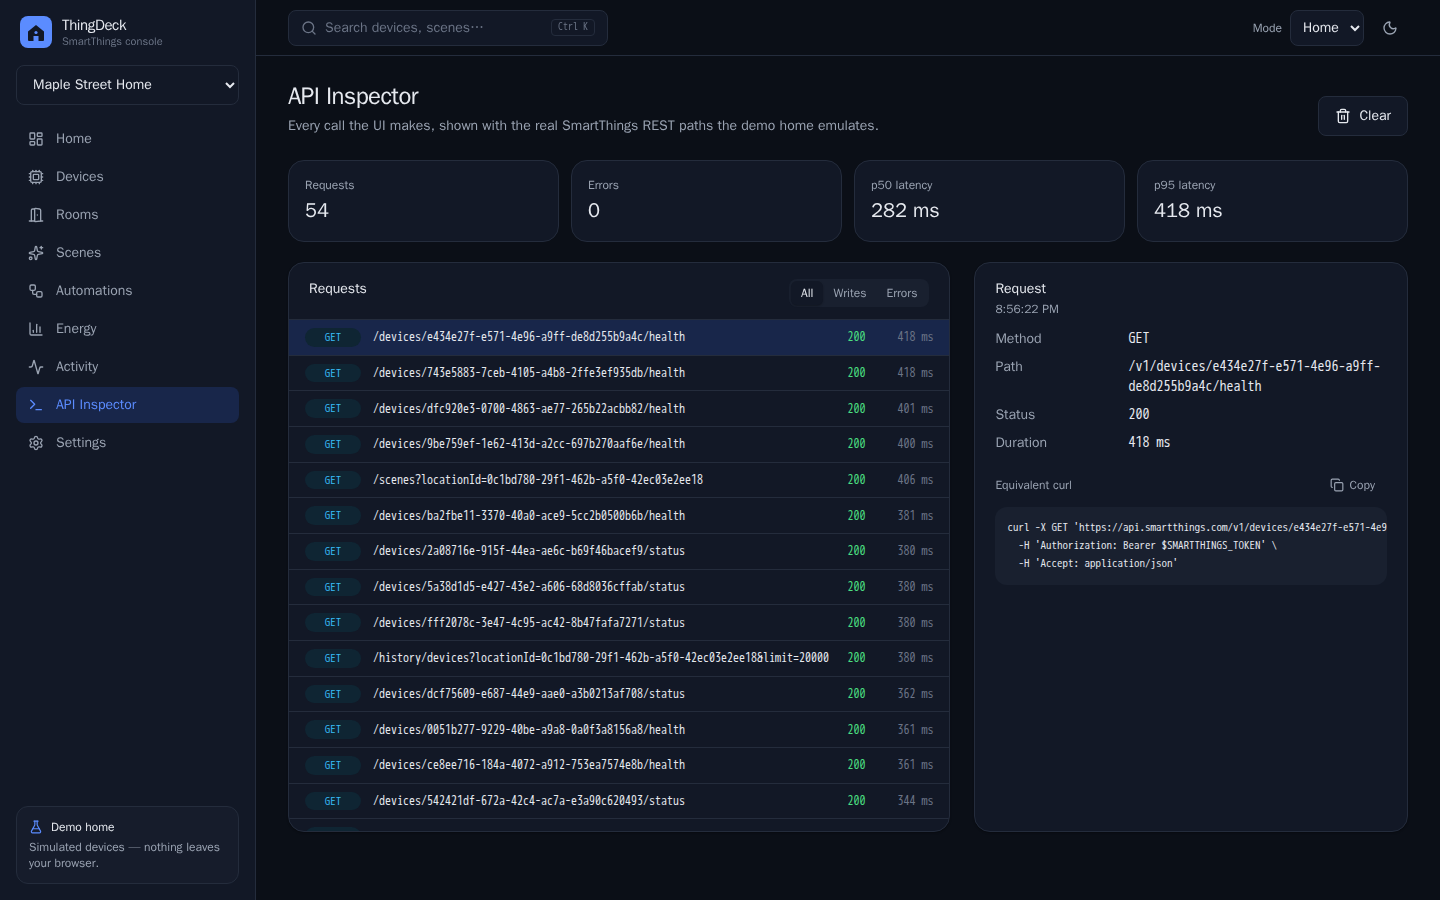
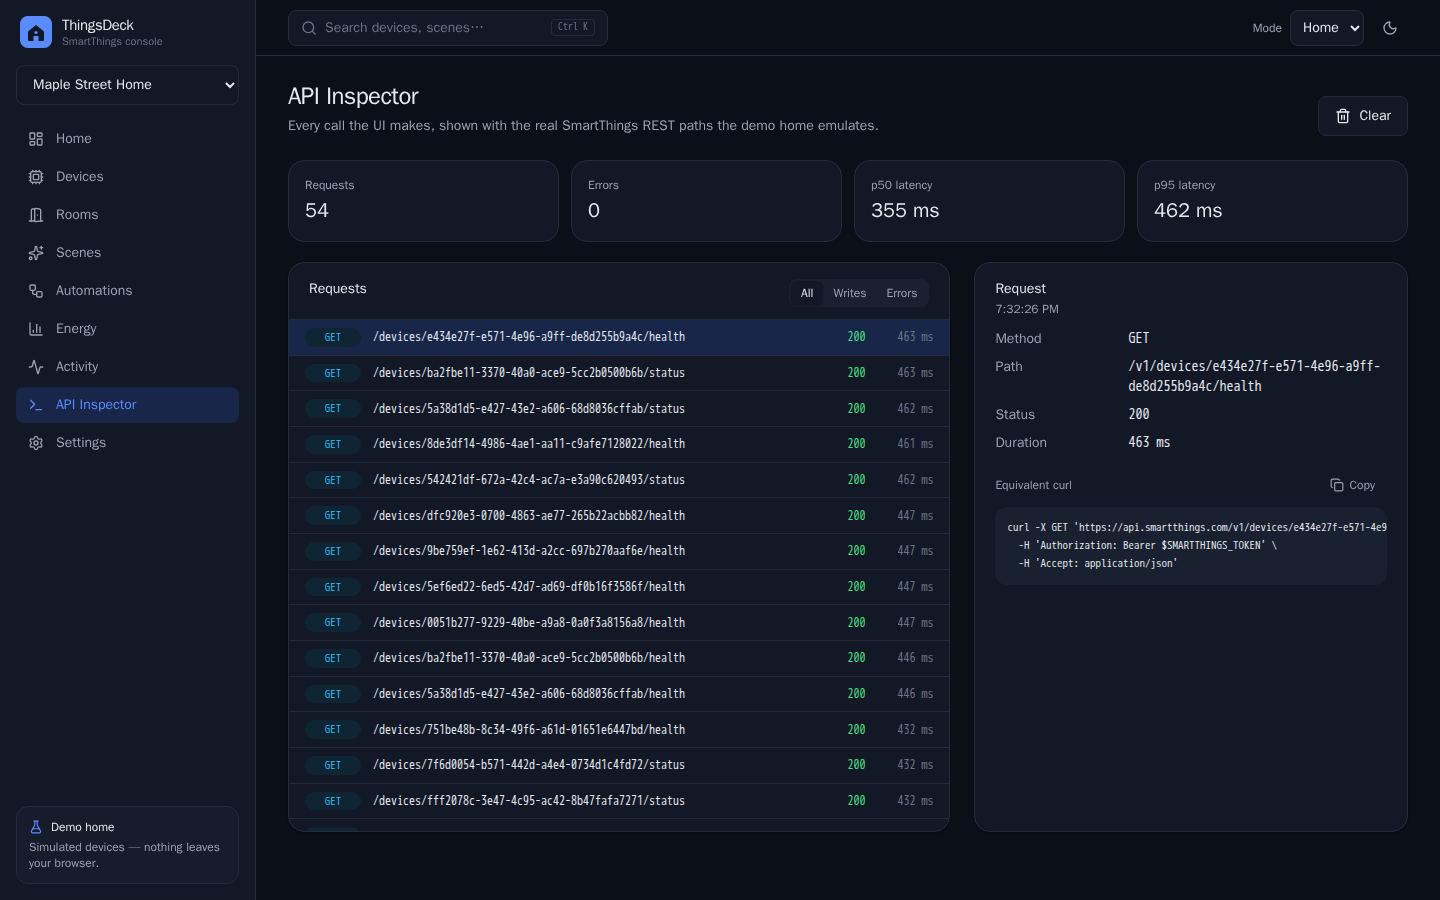
chore: rename project to ThingsDeck
Rename the app, package, Docker project and storage keys, point the README
at the renamed repo with a live CI badge, and regenerate screenshots.

diff --git a/index.html b/index.html
@@ -6,15 +6,15 @@
     <meta name="viewport" content="width=device-width, initial-scale=1.0" />
     <meta
       name="description"
-      content="ThingDeck — an unofficial web console for SmartThings homes, with a fully simulated demo home."
+      content="ThingsDeck — an unofficial web console for SmartThings homes, with a fully simulated demo home."
     />
     <meta name="theme-color" content="#0f172a" />
-    <title>ThingDeck</title>
+    <title>ThingsDeck</title>
     <script>
       // Apply the saved theme before first paint to avoid a flash.
       (function () {
         try {
-          var s = JSON.parse(localStorage.getItem('thingdeck.settings') || '{}');
+          var s = JSON.parse(localStorage.getItem('thingsdeck.settings') || '{}');
           var t = (s.state && s.state.theme) || 'system';
           var dark = t === 'dark' || (t === 'system' && matchMedia('(prefers-color-scheme: dark)').matches);
           document.documentElement.classList.toggle('dark', dark);

diff --git a/src/store/settings.ts b/src/store/settings.ts
@@ -32,7 +32,7 @@ export interface SettingsState {
   setEnergyRate: (rate: number, currency?: string) => void;
 }
 
-const SESSION_TOKEN_KEY = 'thingdeck.token';
+const SESSION_TOKEN_KEY = 'thingsdeck.token';
 
 export const useSettings = create<SettingsState>()(
   persist(
@@ -75,7 +75,7 @@ export const useSettings = create<SettingsState>()(
       setEnergyRate: (energyRate, currency) => set({ energyRate, ...(currency ? { currency } : {}) }),
     }),
     {
-      name: 'thingdeck.settings',
+      name: 'thingsdeck.settings',
       version: 1,
       storage: createJSONStorage(() => ({
         getItem: (key) => local.get(key),

diff --git a/src/pages/Settings.tsx b/src/pages/Settings.tsx
@@ -286,7 +286,7 @@ export default function SettingsPage() {
       </Card>
 
       <p className="pb-4 text-xs text-subtle">
-        ThingDeck is an independent open-source project. It is not affiliated with, endorsed by, or sponsored
+        ThingsDeck is an independent open-source project. It is not affiliated with, endorsed by, or sponsored
         by Samsung or SmartThings. SmartThings is a trademark of its respective owner.
       </p>
     </div>

diff --git a/src/components/layout/Logo.tsx b/src/components/layout/Logo.tsx
@@ -7,7 +7,7 @@ export function Logo() {
         <circle cx="16" cy="16.5" r="1.6" fill="var(--accent)" />
       </svg>
       <div className="leading-tight">
-        <div className="text-[15px] font-semibold tracking-tight">ThingDeck</div>
+        <div className="text-[15px] font-semibold tracking-tight">ThingsDeck</div>
         <div className="text-[11px] text-subtle">SmartThings console</div>
       </div>
     </div>

diff --git a/e2e/screenshots.spec.ts b/e2e/screenshots.spec.ts
@@ -15,7 +15,7 @@ async function settle(page: Page) {
 
 async function setTheme(page: Page, theme: 'light' | 'dark') {
   await page.addInitScript((t) => {
-    localStorage.setItem('thingdeck.settings', JSON.stringify({ state: { theme: t }, version: 1 }));
+    localStorage.setItem('thingsdeck.settings', JSON.stringify({ state: { theme: t }, version: 1 }));
   }, theme);
 }
 

diff --git a/src/lib/storage.ts b/src/lib/storage.ts
@@ -2,7 +2,7 @@
 function safe(kind: 'localStorage' | 'sessionStorage'): Storage | undefined {
   try {
     const storage = globalThis[kind];
-    const probe = '__thingdeck_probe__';
+    const probe = '__thingsdeck_probe__';
     storage.setItem(probe, probe);
     storage.removeItem(probe);
     return storage;

diff --git a/README.md b/README.md
@@ -2,19 +2,19 @@
 
 <img src="public/favicon.svg" width="64" height="64" alt="" />
 
-# ThingDeck
+# ThingsDeck
 
 **A fast, capability-driven web console for SmartThings homes.**
 Runs fully offline against a simulated two-location home. Or point it at your own SmartThings account with a personal access token.
 
-[![CI](https://img.shields.io/badge/CI-GitHub_Actions-2088FF?logo=githubactions&logoColor=white)](.github/workflows/ci.yml)
+[![CI](https://github.com/rh-97/thingsdeck/actions/workflows/ci.yml/badge.svg)](https://github.com/rh-97/thingsdeck/actions/workflows/ci.yml)
 ![React 19](https://img.shields.io/badge/React-19-61DAFB?logo=react&logoColor=black)
 ![TypeScript](https://img.shields.io/badge/TypeScript-strict-3178C6?logo=typescript&logoColor=white)
 ![Vite](https://img.shields.io/badge/Vite-8-646CFF?logo=vite&logoColor=white)
 ![Docker](https://img.shields.io/badge/dev-100%25_Docker-2496ED?logo=docker&logoColor=white)
 ![License: MIT](https://img.shields.io/badge/license-MIT-green)
 
-<img src="docs/screenshots/dashboard-dark.png" alt="ThingDeck dashboard in dark mode" width="100%" />
+<img src="docs/screenshots/dashboard-dark.png" alt="ThingsDeck dashboard in dark mode" width="100%" />
 
 </div>
 
@@ -22,7 +22,7 @@ Runs fully offline against a simulated two-location home. Or point it at your ow
 
 ## Why this exists
 
-SmartThings already has an excellent mobile app. ThingDeck is a **portfolio project** that explores what a _desktop-class_ console for the same platform could look like, built only on the **public** SmartThings REST API:
+SmartThings already has an excellent mobile app. ThingsDeck is a **portfolio project** that explores what a _desktop-class_ console for the same platform could look like, built only on the **public** SmartThings REST API:
 
 - See the whole home at once: health, alerts, power, live activity.
 - Drive any device from a UI generated from its **capabilities**, not hard-coded per model.
@@ -31,7 +31,7 @@ SmartThings already has an excellent mobile app. ThingDeck is a **portfolio proj
 
 It runs **without an account, hardware, or a paid API plan**. The demo home is a full in-browser simulation, so anyone can clone it and click around in under a minute.
 
-> ThingDeck is an independent open-source project. It is not affiliated with, endorsed by, or sponsored by Samsung or SmartThings.
+> ThingsDeck is an independent open-source project. It is not affiliated with, endorsed by, or sponsored by Samsung or SmartThings.
 
 ## Features
 
@@ -73,7 +73,7 @@ It runs **without an account, hardware, or a paid API plan**. The demo home is a
 Everything runs in Docker. Nothing gets installed on your machine except Docker itself.
 
 ```bash
-git clone <this repo> && cd <this repo>
+git clone https://github.com/rh-97/thingsdeck.git && cd thingsdeck
 make dev            # → http://localhost:5180
 ```
 
@@ -89,18 +89,18 @@ Other targets (`make help` lists them all):
 | `make prod`        | Builds the nginx image and serves it on http://localhost:8080 |
 | `make shell`       | Shell inside the dev container                                |
 
-`node_modules` lives in a named Docker volume, so the host and the container never share binaries. Change the port with `THINGDECK_PORT=5200 make dev`.
+`node_modules` lives in a named Docker volume, so the host and the container never share binaries. Change the port with `THINGSDECK_PORT=5200 make dev`.
 
 ## Using your own SmartThings account (optional)
 
 1. Create a token at **[account.smartthings.com/tokens](https://account.smartthings.com/tokens)** with the scopes
    `r:devices:* x:devices:* r:locations:* x:locations:* r:scenes:* x:scenes:* r:rules:* w:rules:*`.
-2. In ThingDeck, open **Settings → Personal access token**, paste it and press **Connect**.
+2. In ThingsDeck, open **Settings → Personal access token**, paste it and press **Connect**.
 
 Notes:
 
 - **Free.** Personal access tokens don't need the paid SmartThings Developer Plan, which covers OAuth "API Access" apps. SmartThings describes PATs as meant for personal testing and light scripts, which is exactly this use.
-- **Tokens created after Dec 2024 expire after 24 hours.** ThingDeck detects the `401` and asks for a fresh one.
+- **Tokens created after Dec 2024 expire after 24 hours.** ThingsDeck detects the `401` and asks for a fresh one.
 - **Requests go through a same-origin proxy** (`/st-api → https://api.smartthings.com/v1`): Vite's proxy in dev, nginx in the production image. The SmartThings API doesn't allow browser CORS, so the static GitHub Pages build is demo-only.
 - The token stays in `sessionStorage` unless you tick _Remember on this device_, and it's never logged.
 - Live mode polls conservatively (status every 30–60 s, at most 4 requests in flight) to stay well inside the [rate limits](https://developer.smartthings.com/docs/getting-started/rate-limits).
